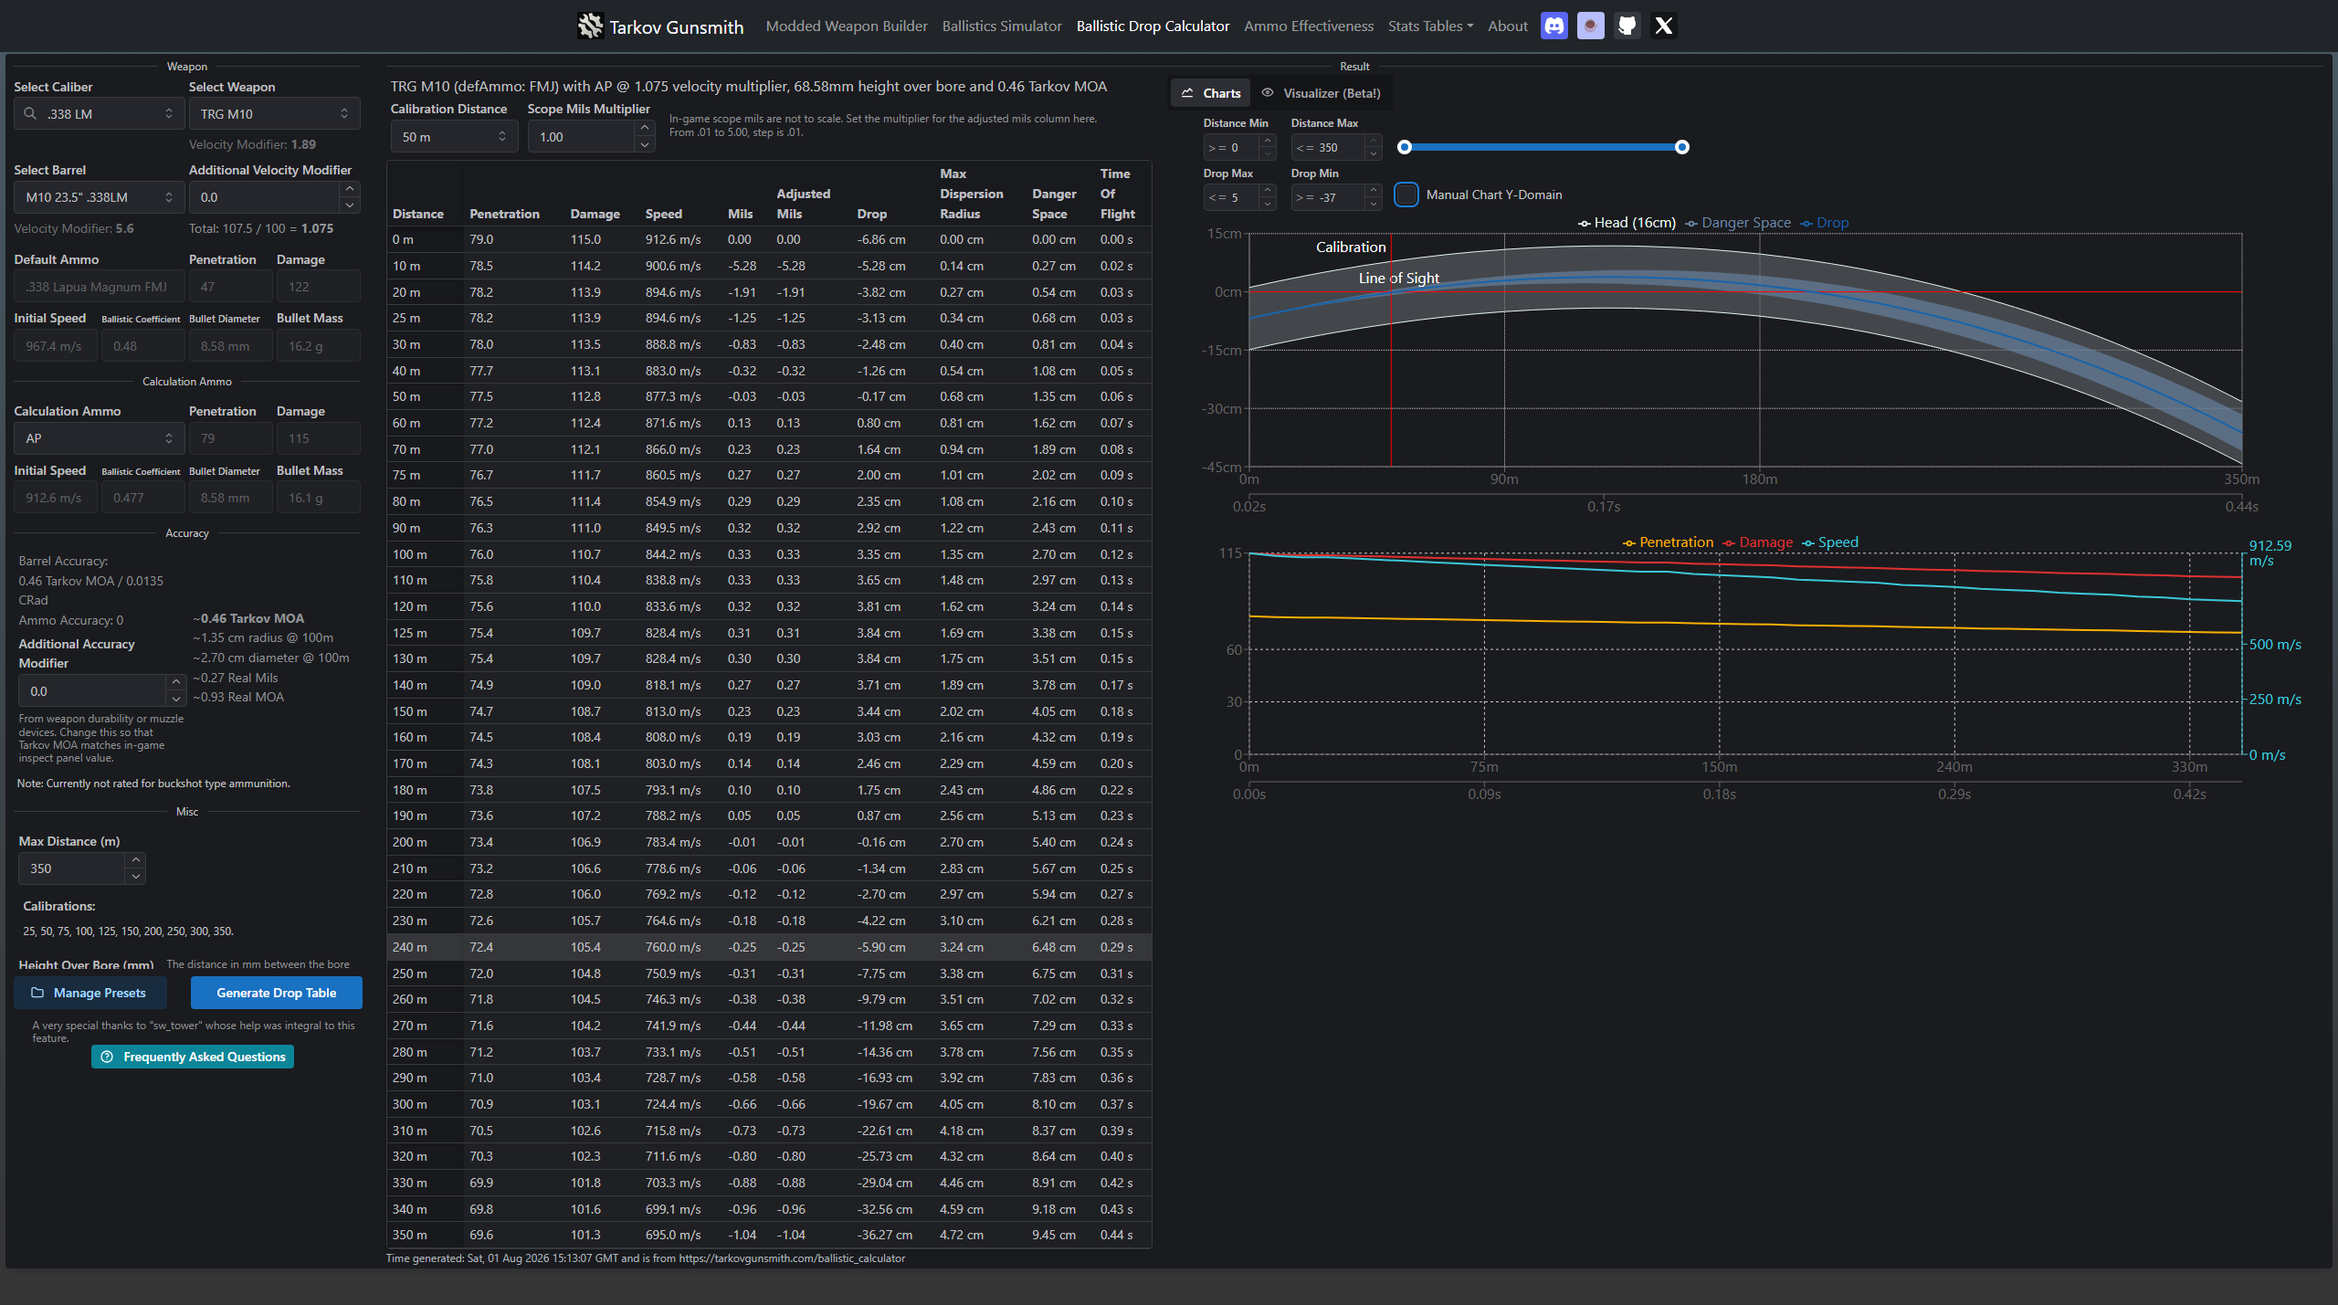
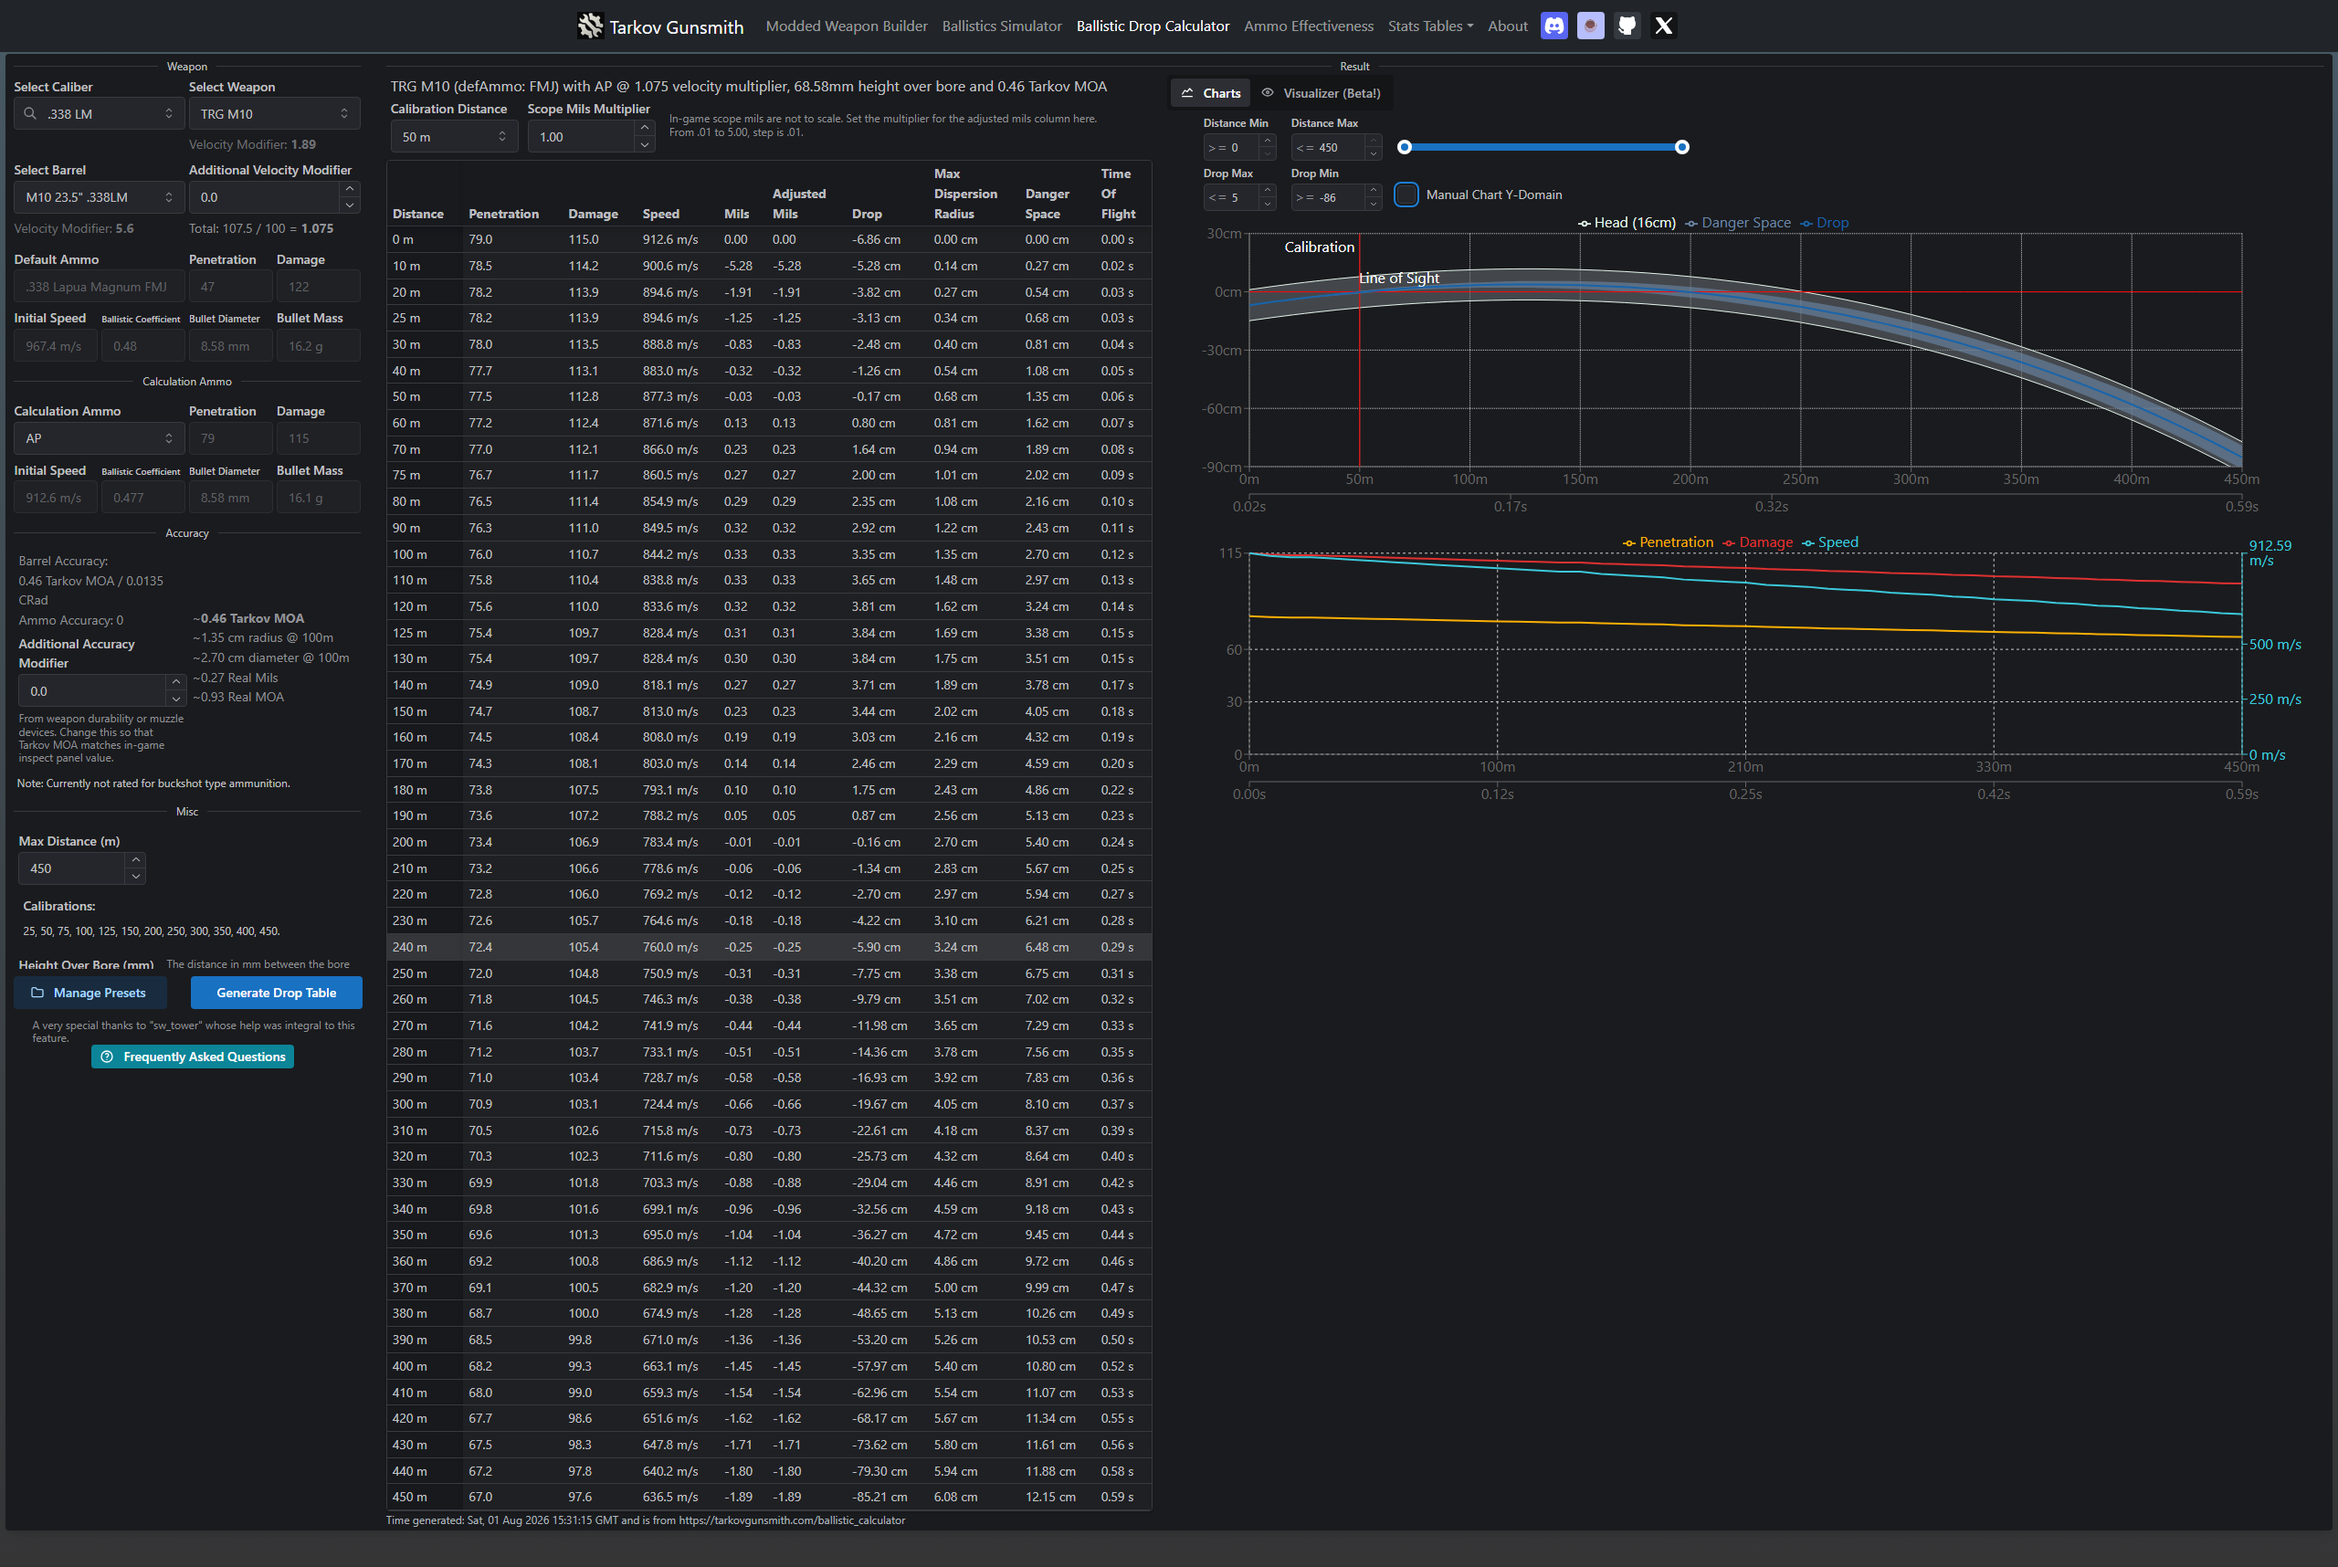
fix: injectTicks 自适应模板修复 — 350m图刻度注入失效 + 全量统一450m重跑

diff --git a/tools/generate_ballistic_charts.js b/tools/generate_ballistic_charts.js
@@ -171,7 +171,7 @@ async function adjustLayout() {
   });
 }
 
-/** X 轴刻度细分: 从现有刻度反推线性映射, 克隆 tick 插入每 stepM 米的刻度 + grid 竖线 */
+/** X 轴刻度细分(自适应): 用图内实际最小/最大距离刻度做模板, 插入每 stepM 米的刻度 + grid 竖线 */
 async function injectTicks(stepM = 50) {
   return await page.evaluate((step) => {
     const svgs = document.querySelectorAll('svg');
@@ -180,30 +180,30 @@ async function injectTicks(stepM = 50) {
       if (!texts.some(t => /^\d+m$/.test(t)) || s.getBoundingClientRect().width < 300) continue;
       const ticksGroup = s.querySelector('.recharts-cartesian-axis-ticks');
       const gridVertical = s.querySelector('.recharts-cartesian-grid-vertical');
-      if (!ticksGroup) return 'no ticks group';
-      const tick150 = Array.from(ticksGroup.querySelectorAll('.recharts-cartesian-axis-tick')).find(t => t.textContent.trim() === '150m');
-      const tick450 = Array.from(ticksGroup.querySelectorAll('.recharts-cartesian-axis-tick')).find(t => t.textContent.trim() === '450m');
-      if (!tick150 || !tick450) return 'template missing';
-      const x150 = parseFloat(tick150.querySelector('text').getAttribute('x'));
-      const x450 = parseFloat(tick450.querySelector('text').getAttribute('x'));
-      const pxPerM = (x450 - x150) / 300;
-      const plotLeft = x150 - 150 * pxPerM;
-      const maxDist = 450;
+      if (!ticksGroup) continue;
+      // 收集所有距离刻度, 按数值排序
+      const distTicks = Array.from(ticksGroup.querySelectorAll('.recharts-cartesian-axis-tick'))
+        .map(t => ({ el: t, val: parseInt(t.textContent.trim()) }))
+        .filter(t => !isNaN(t.val) && /^\d+m$/.test(t.el.textContent.trim()));
+      if (distTicks.length < 2) continue;
+      distTicks.sort((a, b) => a.val - b.val);
+      const tickMin = distTicks[0];
+      const tickMax = distTicks[distTicks.length - 1];
+      const xMin = parseFloat(tickMin.el.querySelector('text').getAttribute('x'));
+      const xMax = parseFloat(tickMax.el.querySelector('text').getAttribute('x'));
+      const minVal = tickMin.val;
+      const maxVal = tickMax.val;
       const existing = new Set(Array.from(ticksGroup.querySelectorAll('.recharts-cartesian-axis-tick-value')).map(t => t.textContent.trim()));
-      const newDists = [];
-      for (let d = step; d <= maxDist; d += step) {
-        if (!existing.has(d + 'm')) newDists.push(d);
-      }
-      for (const d of newDists) {
-        const x = plotLeft + (d / maxDist) * (x450 - plotLeft);
-        const clone = tick150.cloneNode(true);
-        const line = clone.querySelector('line');
+      const added = [];
+      for (let d = step; d <= maxVal; d += step) {
+        if (existing.has(d + 'm')) continue;
+        const x = xMin + ((d - minVal) / (maxVal - minVal)) * (xMax - xMin);
+        const clone = tickMax.el.cloneNode(true);
+        clone.querySelector('line').setAttribute('x1', x); clone.querySelector('line').setAttribute('x2', x);
         const textEl = clone.querySelector('text');
-        const tspan = clone.querySelector('tspan');
-        line.setAttribute('x1', x); line.setAttribute('x2', x);
         textEl.setAttribute('x', x);
-        tspan.setAttribute('x', x);
-        tspan.textContent = d + 'm';
+        clone.querySelector('tspan').setAttribute('x', x);
+        clone.querySelector('tspan').textContent = d + 'm';
         ticksGroup.appendChild(clone);
         if (gridVertical) {
           const gv = Array.from(gridVertical.querySelectorAll('line'));
@@ -213,8 +213,9 @@ async function injectTicks(stepM = 50) {
             gridVertical.appendChild(gclone);
           }
         }
+        added.push(d);
       }
-      return { added: newDists.length, dists: newDists };
+      return { added, maxVal };
     }
     return 'chart not found';
   }, stepM);
@@ -289,42 +290,48 @@ const WEAPON_CONFIGS = {
     weapon: 'SR-25',
     barrel: 'SR-25 20"',
     ammos: ['M80', 'M61', 'M62', 'M993'],
-    prefix: 'sr25'
+    prefix: 'sr25',
+    maxDist: 450
   },
   'g28': {
     caliber: '7.62x51mm',
     weapon: 'G28',
     barrel: '417 16.5"',
     ammos: ['M80', 'M61', 'M62', 'M993'],
-    prefix: 'g28'
+    prefix: 'g28',
+    maxDist: 450
   },
   't5000': {
     caliber: '7.62x51mm',
     weapon: 'T-5000M',
     barrel: 'T-5000M 660mm',
     ammos: ['M80', 'M61', 'M62', 'M993'],
-    prefix: 't5000'
+    prefix: 't5000',
+    maxDist: 450
   },
   'm10_27': {
     caliber: '.338 LM',
     weapon: 'TRG M10',
     barrel: 'M10 27" .338LM',
     ammos: ['AP', 'FMJ', 'UCW', 'TAC-X'],
-    prefix: 'm10_27'
+    prefix: 'm10_27',
+    maxDist: 450
   },
   'm10_235': {
     caliber: '.338 LM',
     weapon: 'TRG M10',
     barrel: 'M10 23.5" .338LM',
     ammos: ['AP', 'FMJ', 'UCW', 'TAC-X'],
-    prefix: 'm10_235'
+    prefix: 'm10_235',
+    maxDist: 450
   },
   'ak50': {
     caliber: '.50 BMG',
     weapon: 'AK-50',
     barrel: 'AK-50 24"',
     ammos: ['M903', 'M33', 'M21', 'HP'],
-    prefix: 'ak50'
+    prefix: 'ak50',
+    maxDist: 450
   },
   'ak12': {
     caliber: '5.45x39mm',
